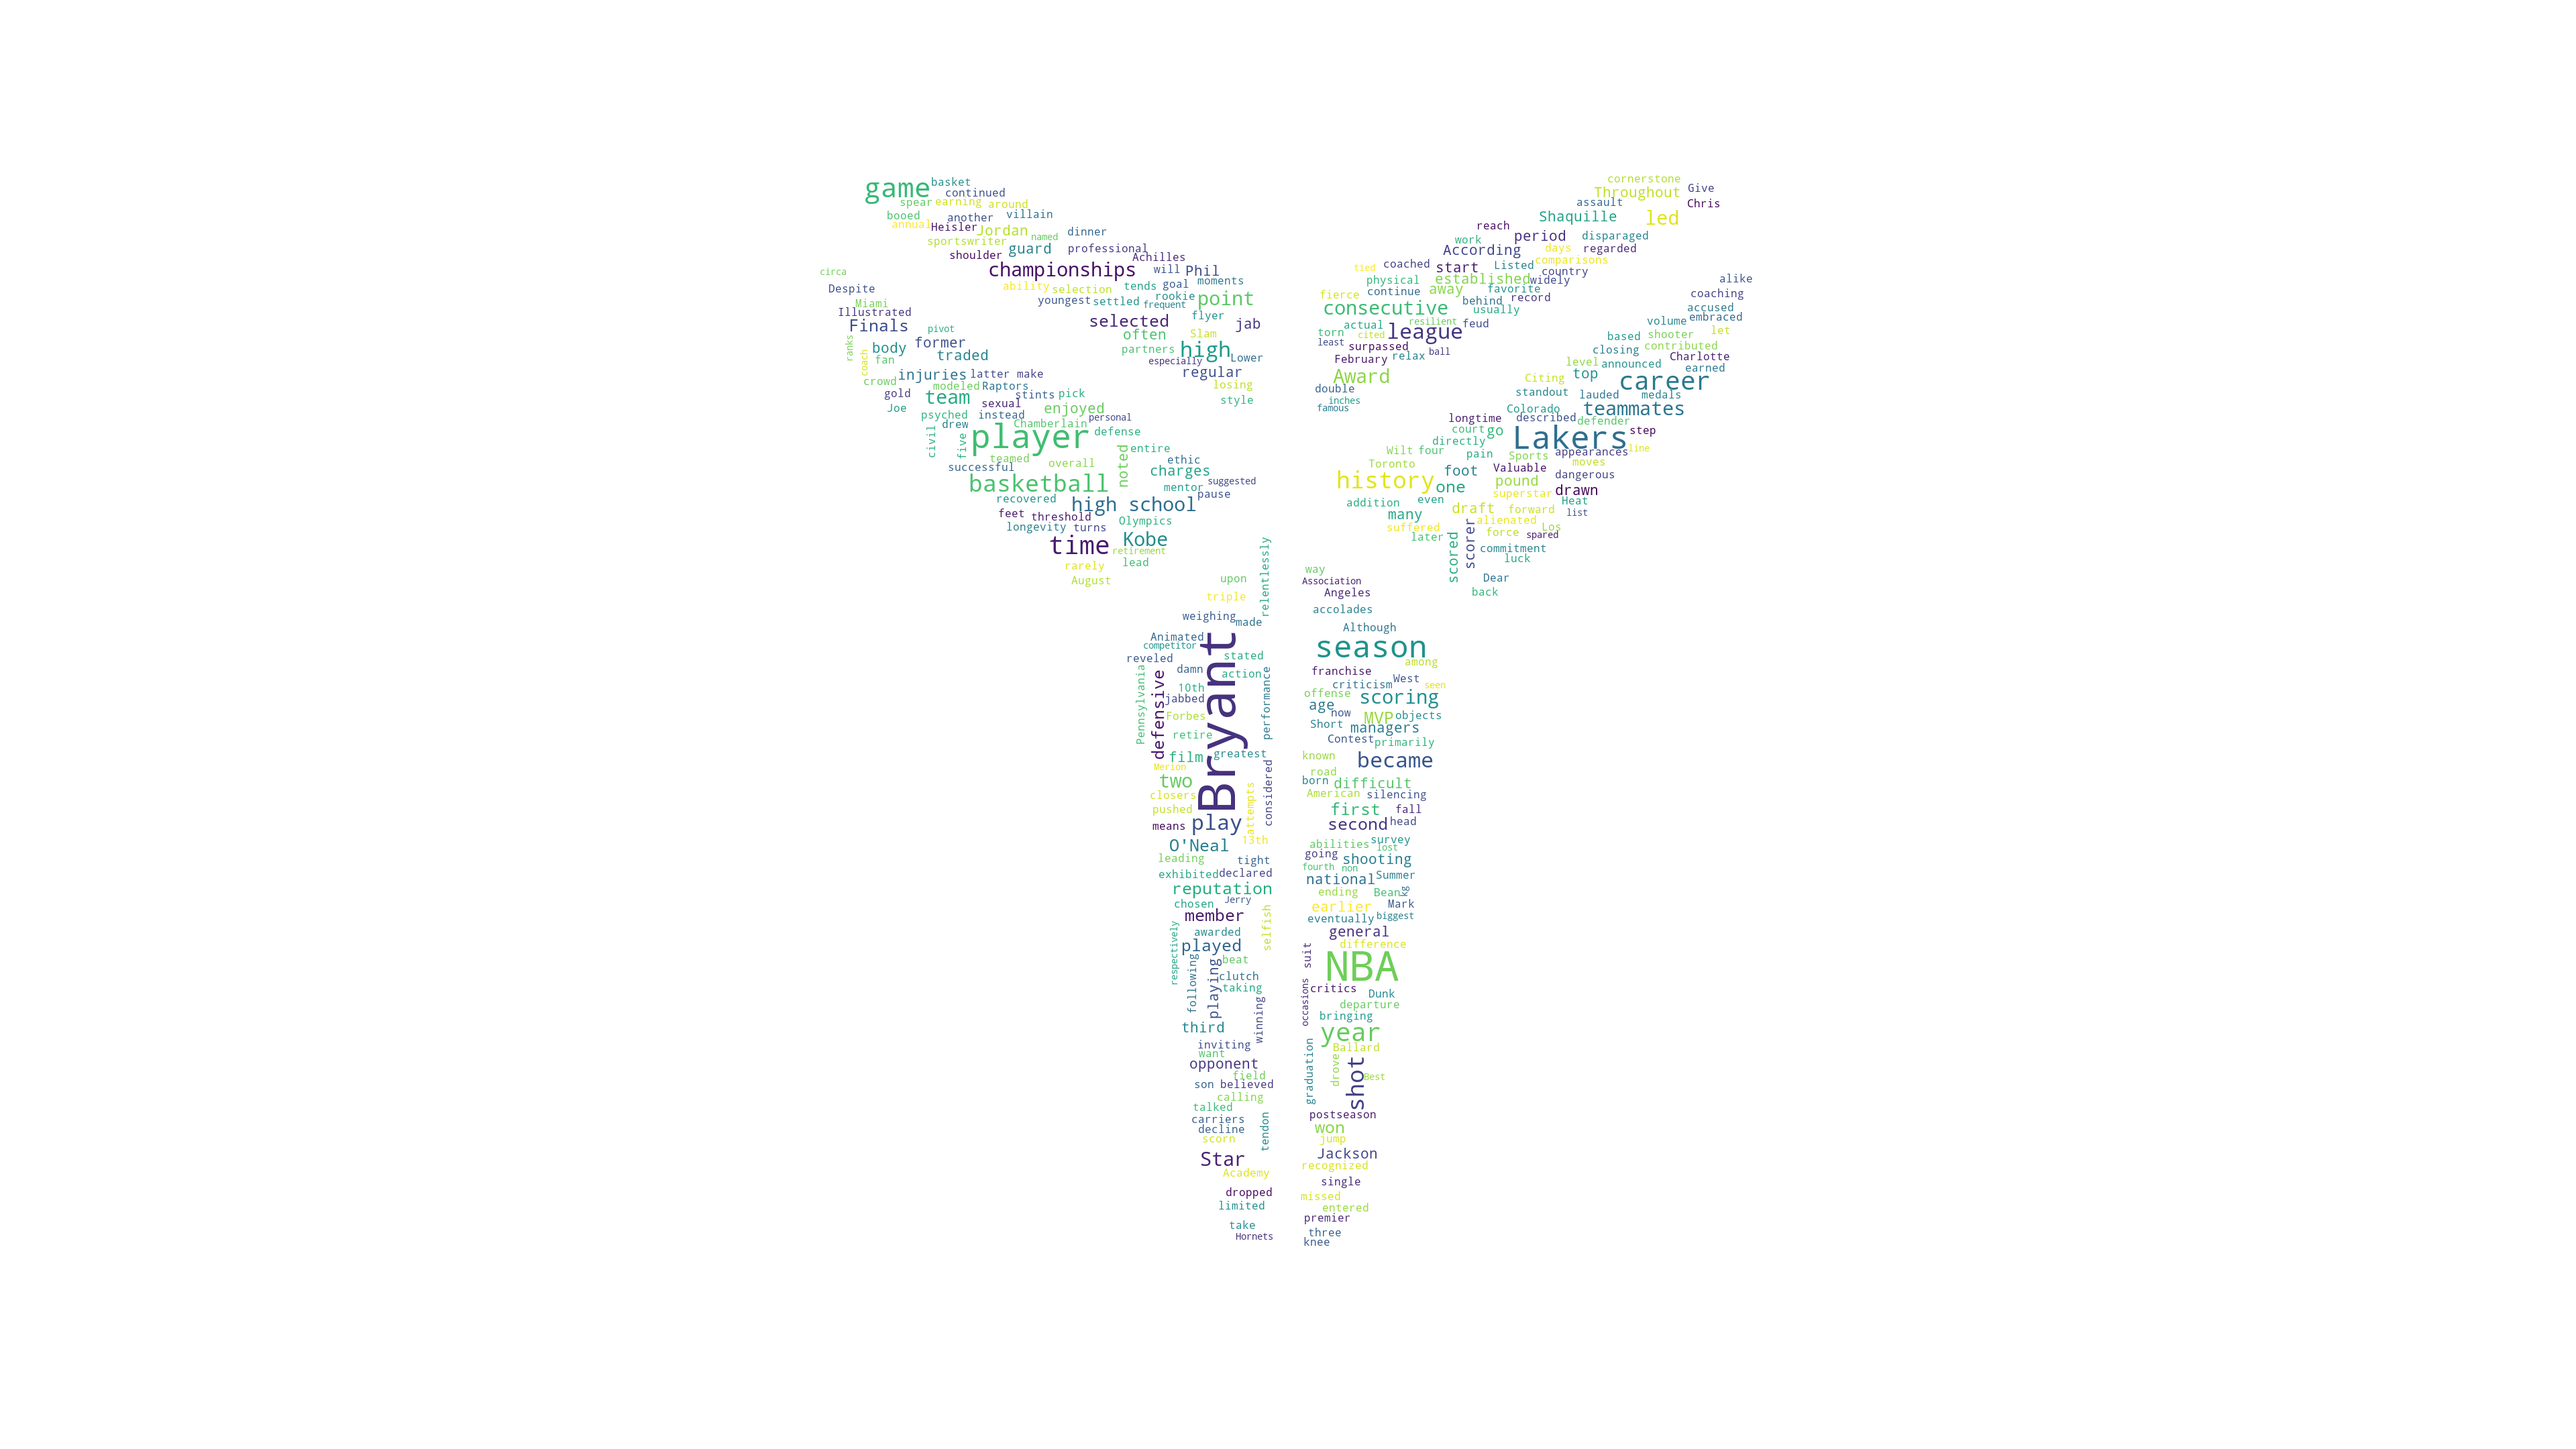
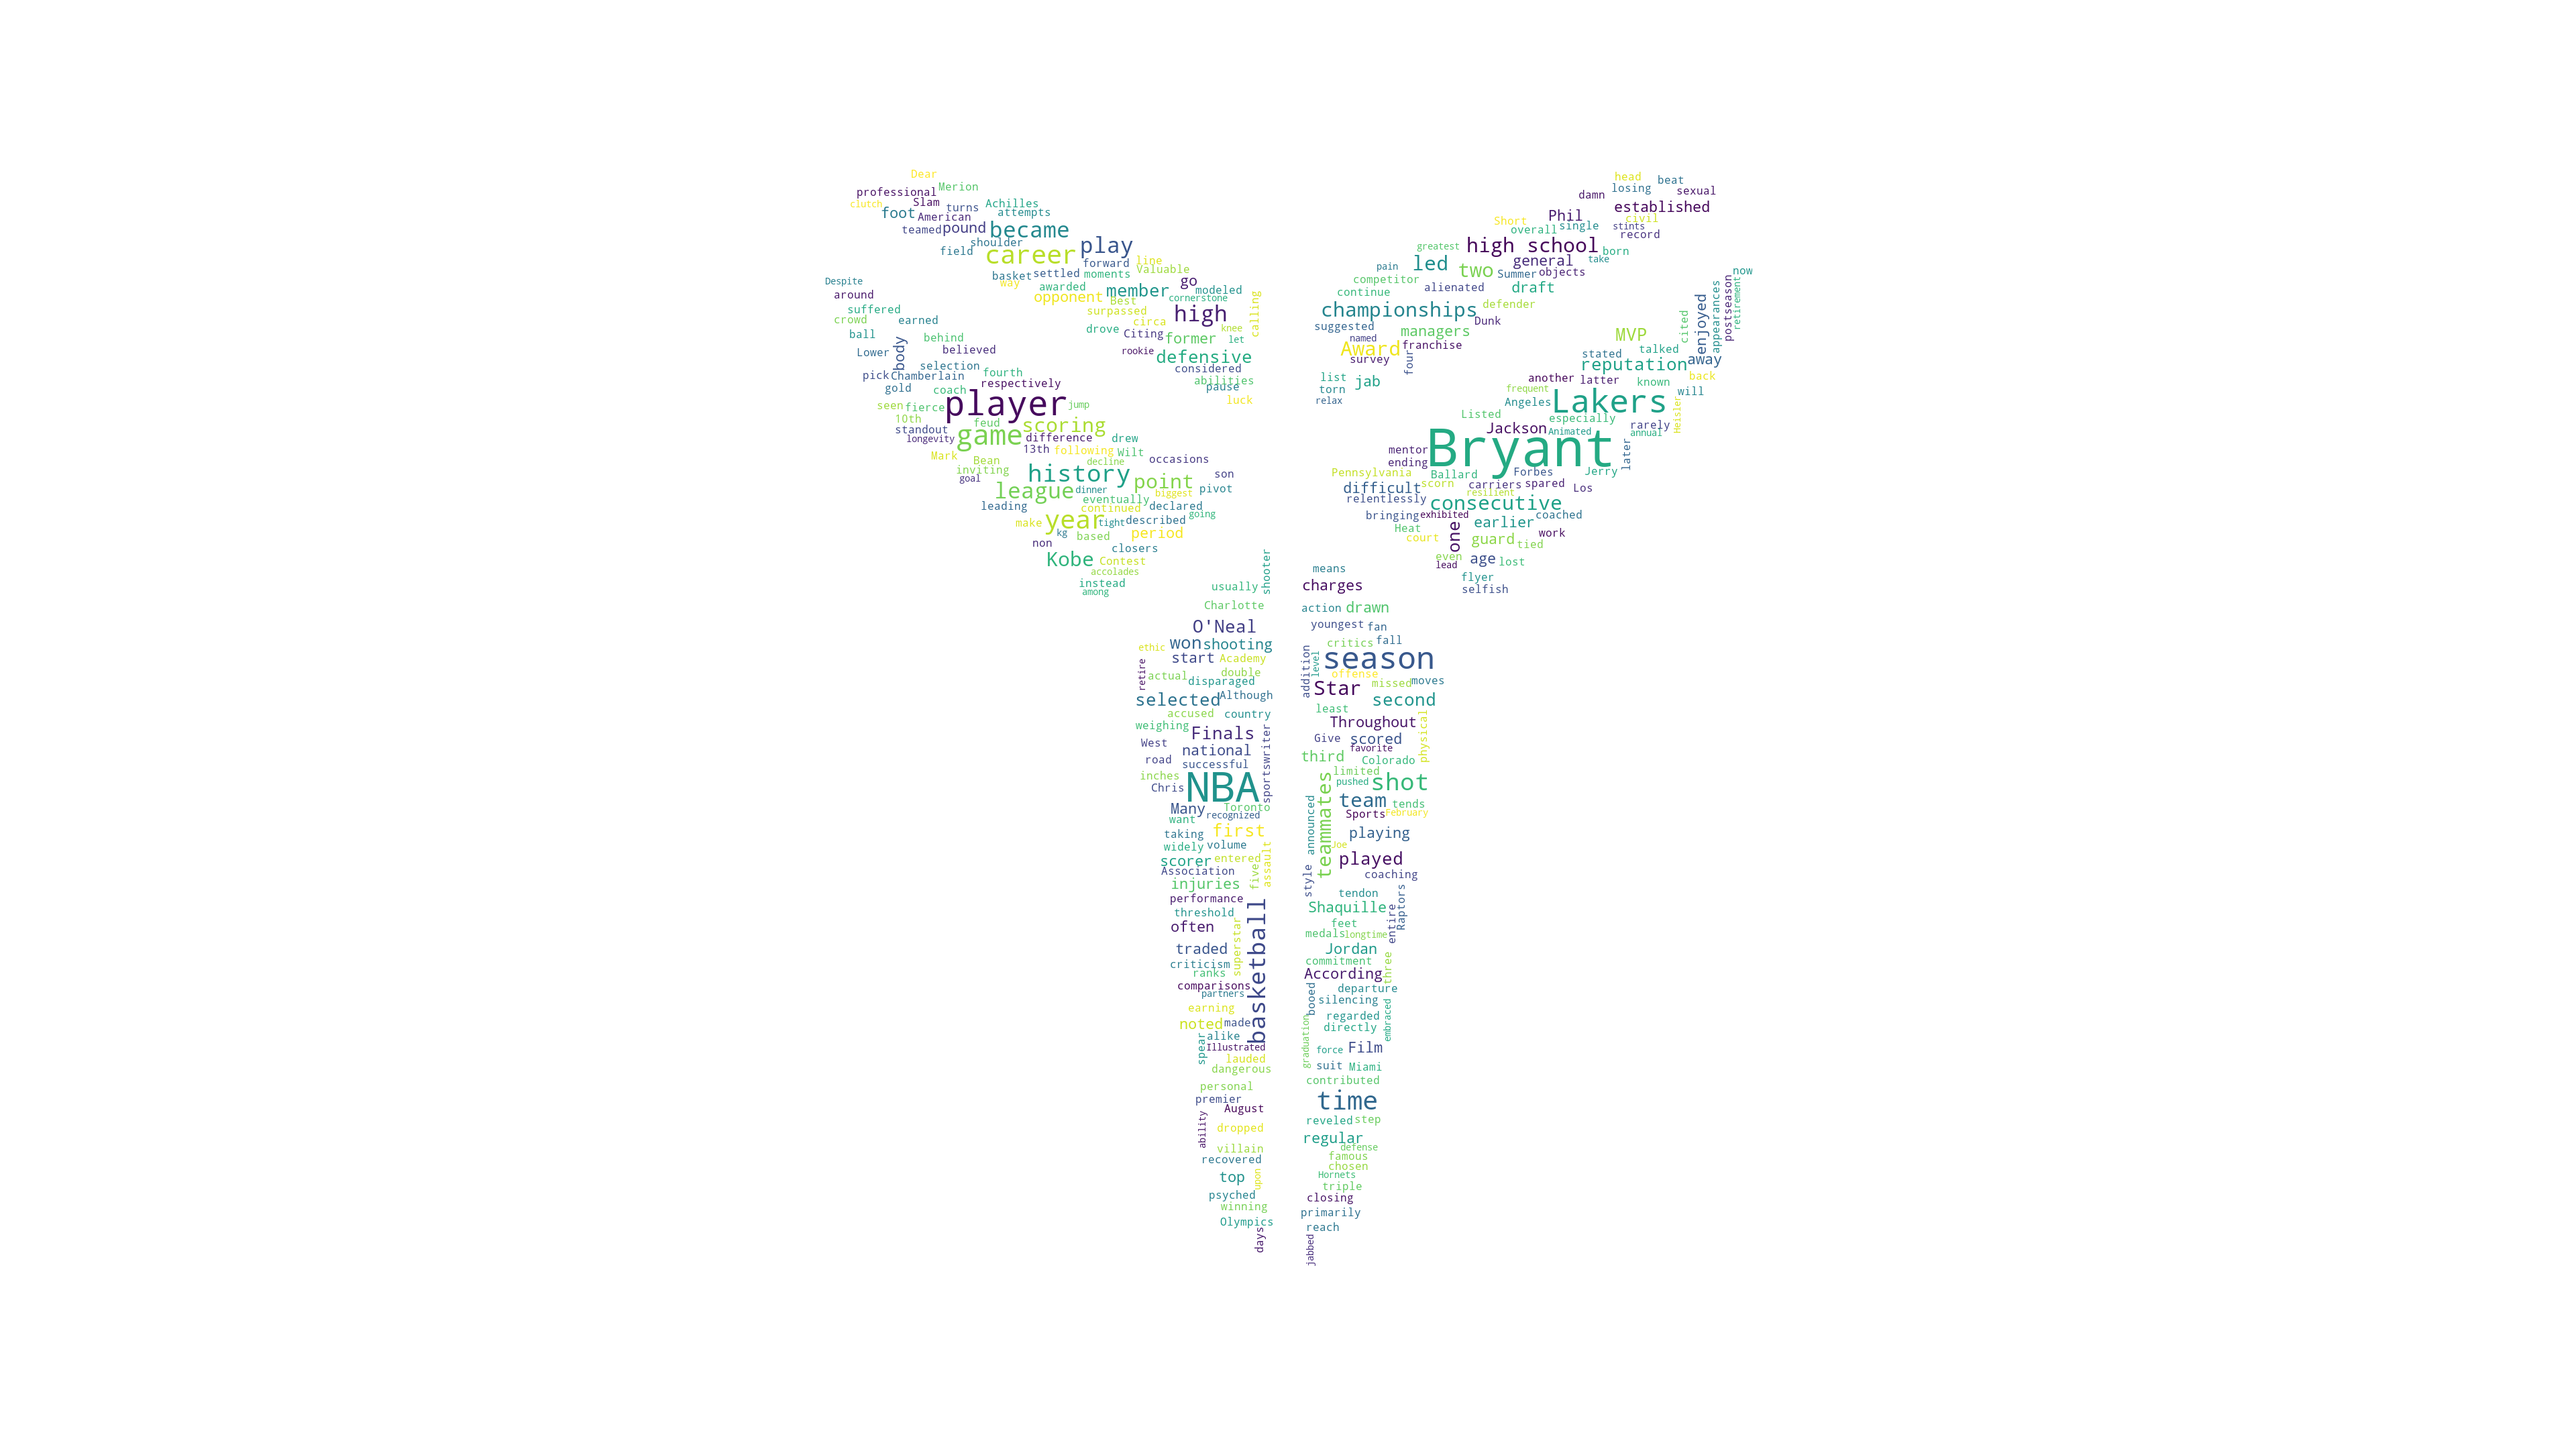
second commit

diff --git a/hw0/Keywords_to_Image.py b/hw0/Keywords_to_Image.py
@@ -10,7 +10,7 @@ d = path.dirname(__file__) if "__file__" in locals() else os.getcwd()
 text = open(path.join(d, 'kobe.txt')).read()
 	
 # Read the mask image
-kobe_mask = np.array(Image.open(path.join(d, "nba.jpg")))
+kobe_mask = np.array(Image.open(path.join(d, "kobe.png")))
 
 stopwords = set(STOPWORDS)
 
@@ -19,4 +19,4 @@ stopwords=stopwords)
 
 
 wc.generate(text)
-wc.to_file(path.join(d, "nba.png"))
+wc.to_file(path.join(d, "kobe_wordcloud.png"))

diff --git a/hw0/README.md b/hw0/README.md
@@ -1,0 +1,46 @@
+# HW0
+
+####從助教的程式碼中，挑出一段功能修改後並寫上修改說明，放置Github
+
+- Reference：https://github.com/MiccWan/Political-News-Analysis/tree/master/final_demo
+
+
+
+### My work - Wordcloud Generator
+
+- **Motivation**
+
+  I have no interest in those political analysis so I pick the wordcloud which is very impressive when I first read TA's project. Also, I think that this wordcloud generator might be useful in other place.
+
+- **Result**
+
+  ![kobe_wordcloud](/Users/Ingram/Desktop/CSIE/3-2/CSX/hw0/kobe_wordcloud.png)
+
+- **Implementation**
+
+  From TA's source code, I learned that there's a package for python to generate wordcloud.
+
+  The package is called **wordcloud** and I use **pip3 install** to download it.
+
+  We can just import it and use **matplotlib** package as well to export the result image.
+
+  The implementation steps are as follow.
+
+  1. Choose a *Kobe Bryant's logo* image as a mask image **kobe.png**
+
+     ![kobe](/Users/Ingram/Desktop/CSIE/3-2/CSX/hw0/kobe.png)
+
+  2. Randomly picked sentences about *Kobe Bryant* from wikipedia and write into **kobe.txt**
+
+  3. Write a python code to generate the wordcloud photo **kobe_wordcloud.png**
+
+     *(Reference: https://github.com/amueller/word_cloud)*
+
+  ```python
+  # Generate the wordcloud
+  wc = WordCloud(background_color="white", max_words=2000, mask=kobe_mask, stopwords=stopwords)
+  ```
+
+- **Difficulty**
+
+  At first, I tried some Kobe Bryant's photos but they all failed. Because that the mask image needed for the wordcloud generator must have a strong contrast in color. Otherwise, the mask you want to present will not be obvious. Therefore, I used some photo editor app to make the mask image stronger in color. And I succeeded to generate a wordcloud with a Kobe Bryant's shape. That said, since every NBA players all looks the same in that shape, it is hard to tell who's that from the wordcloud. I finally decided to choose a simple logo of Kobe Bryant and it worked.
